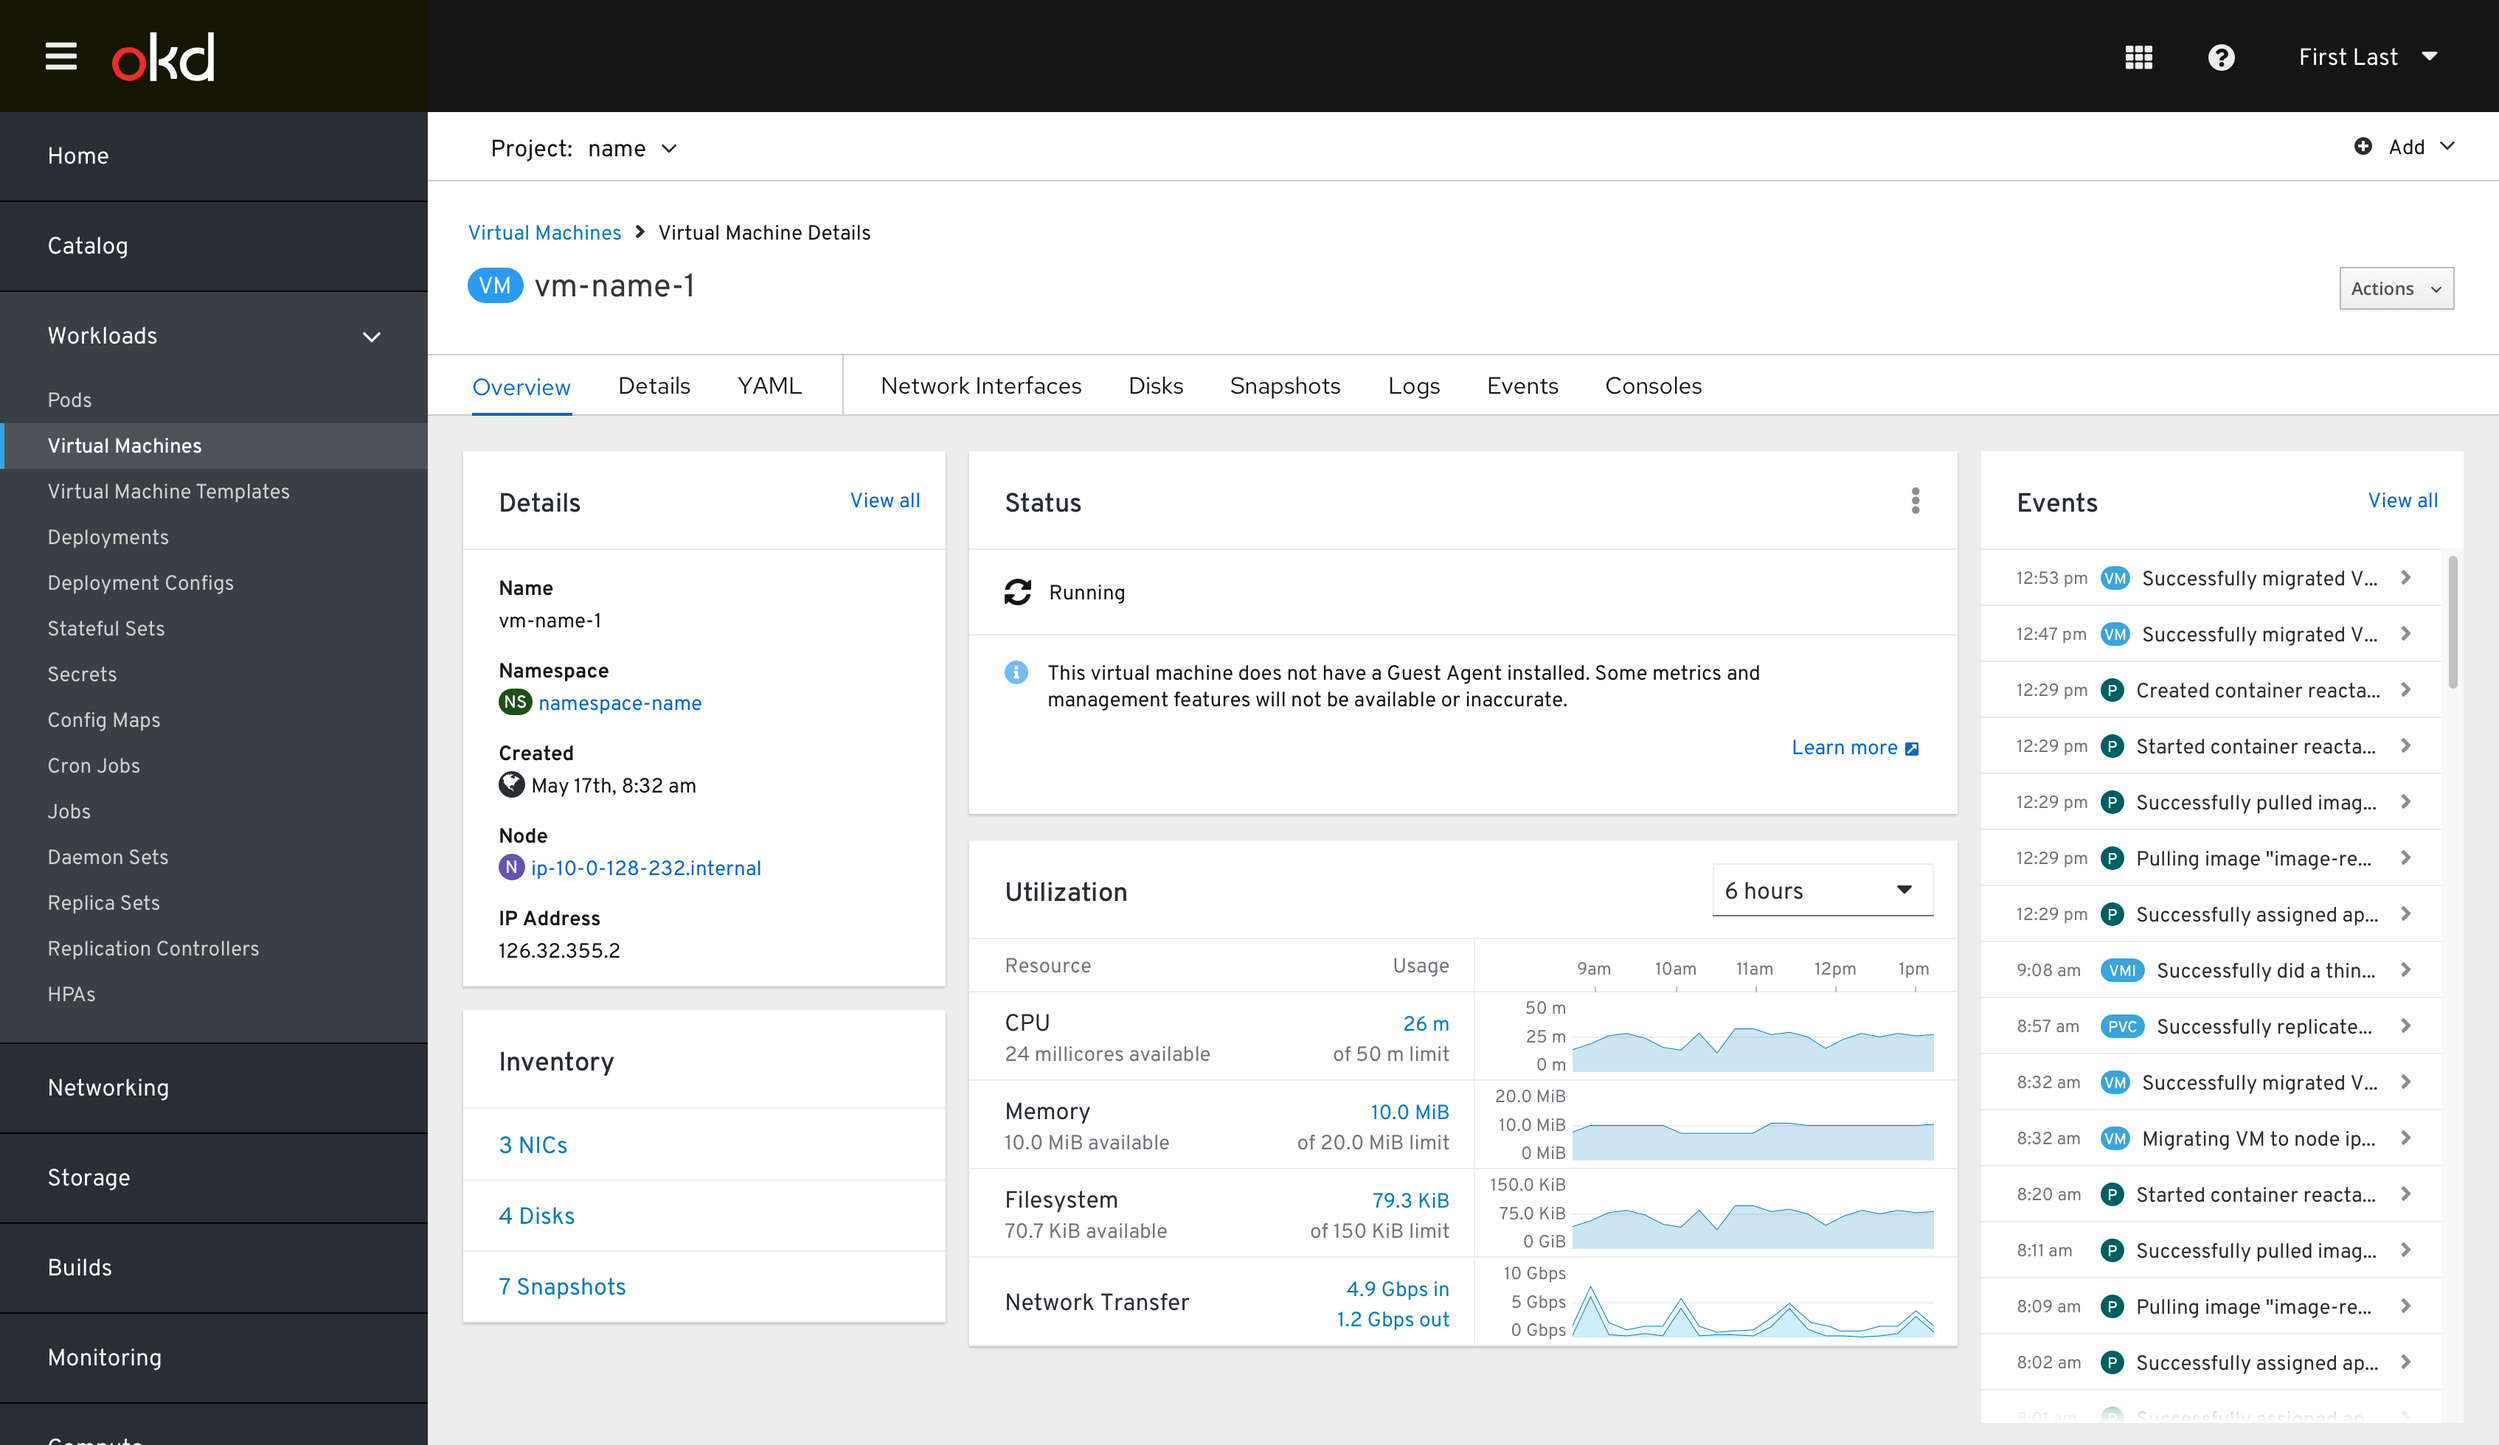
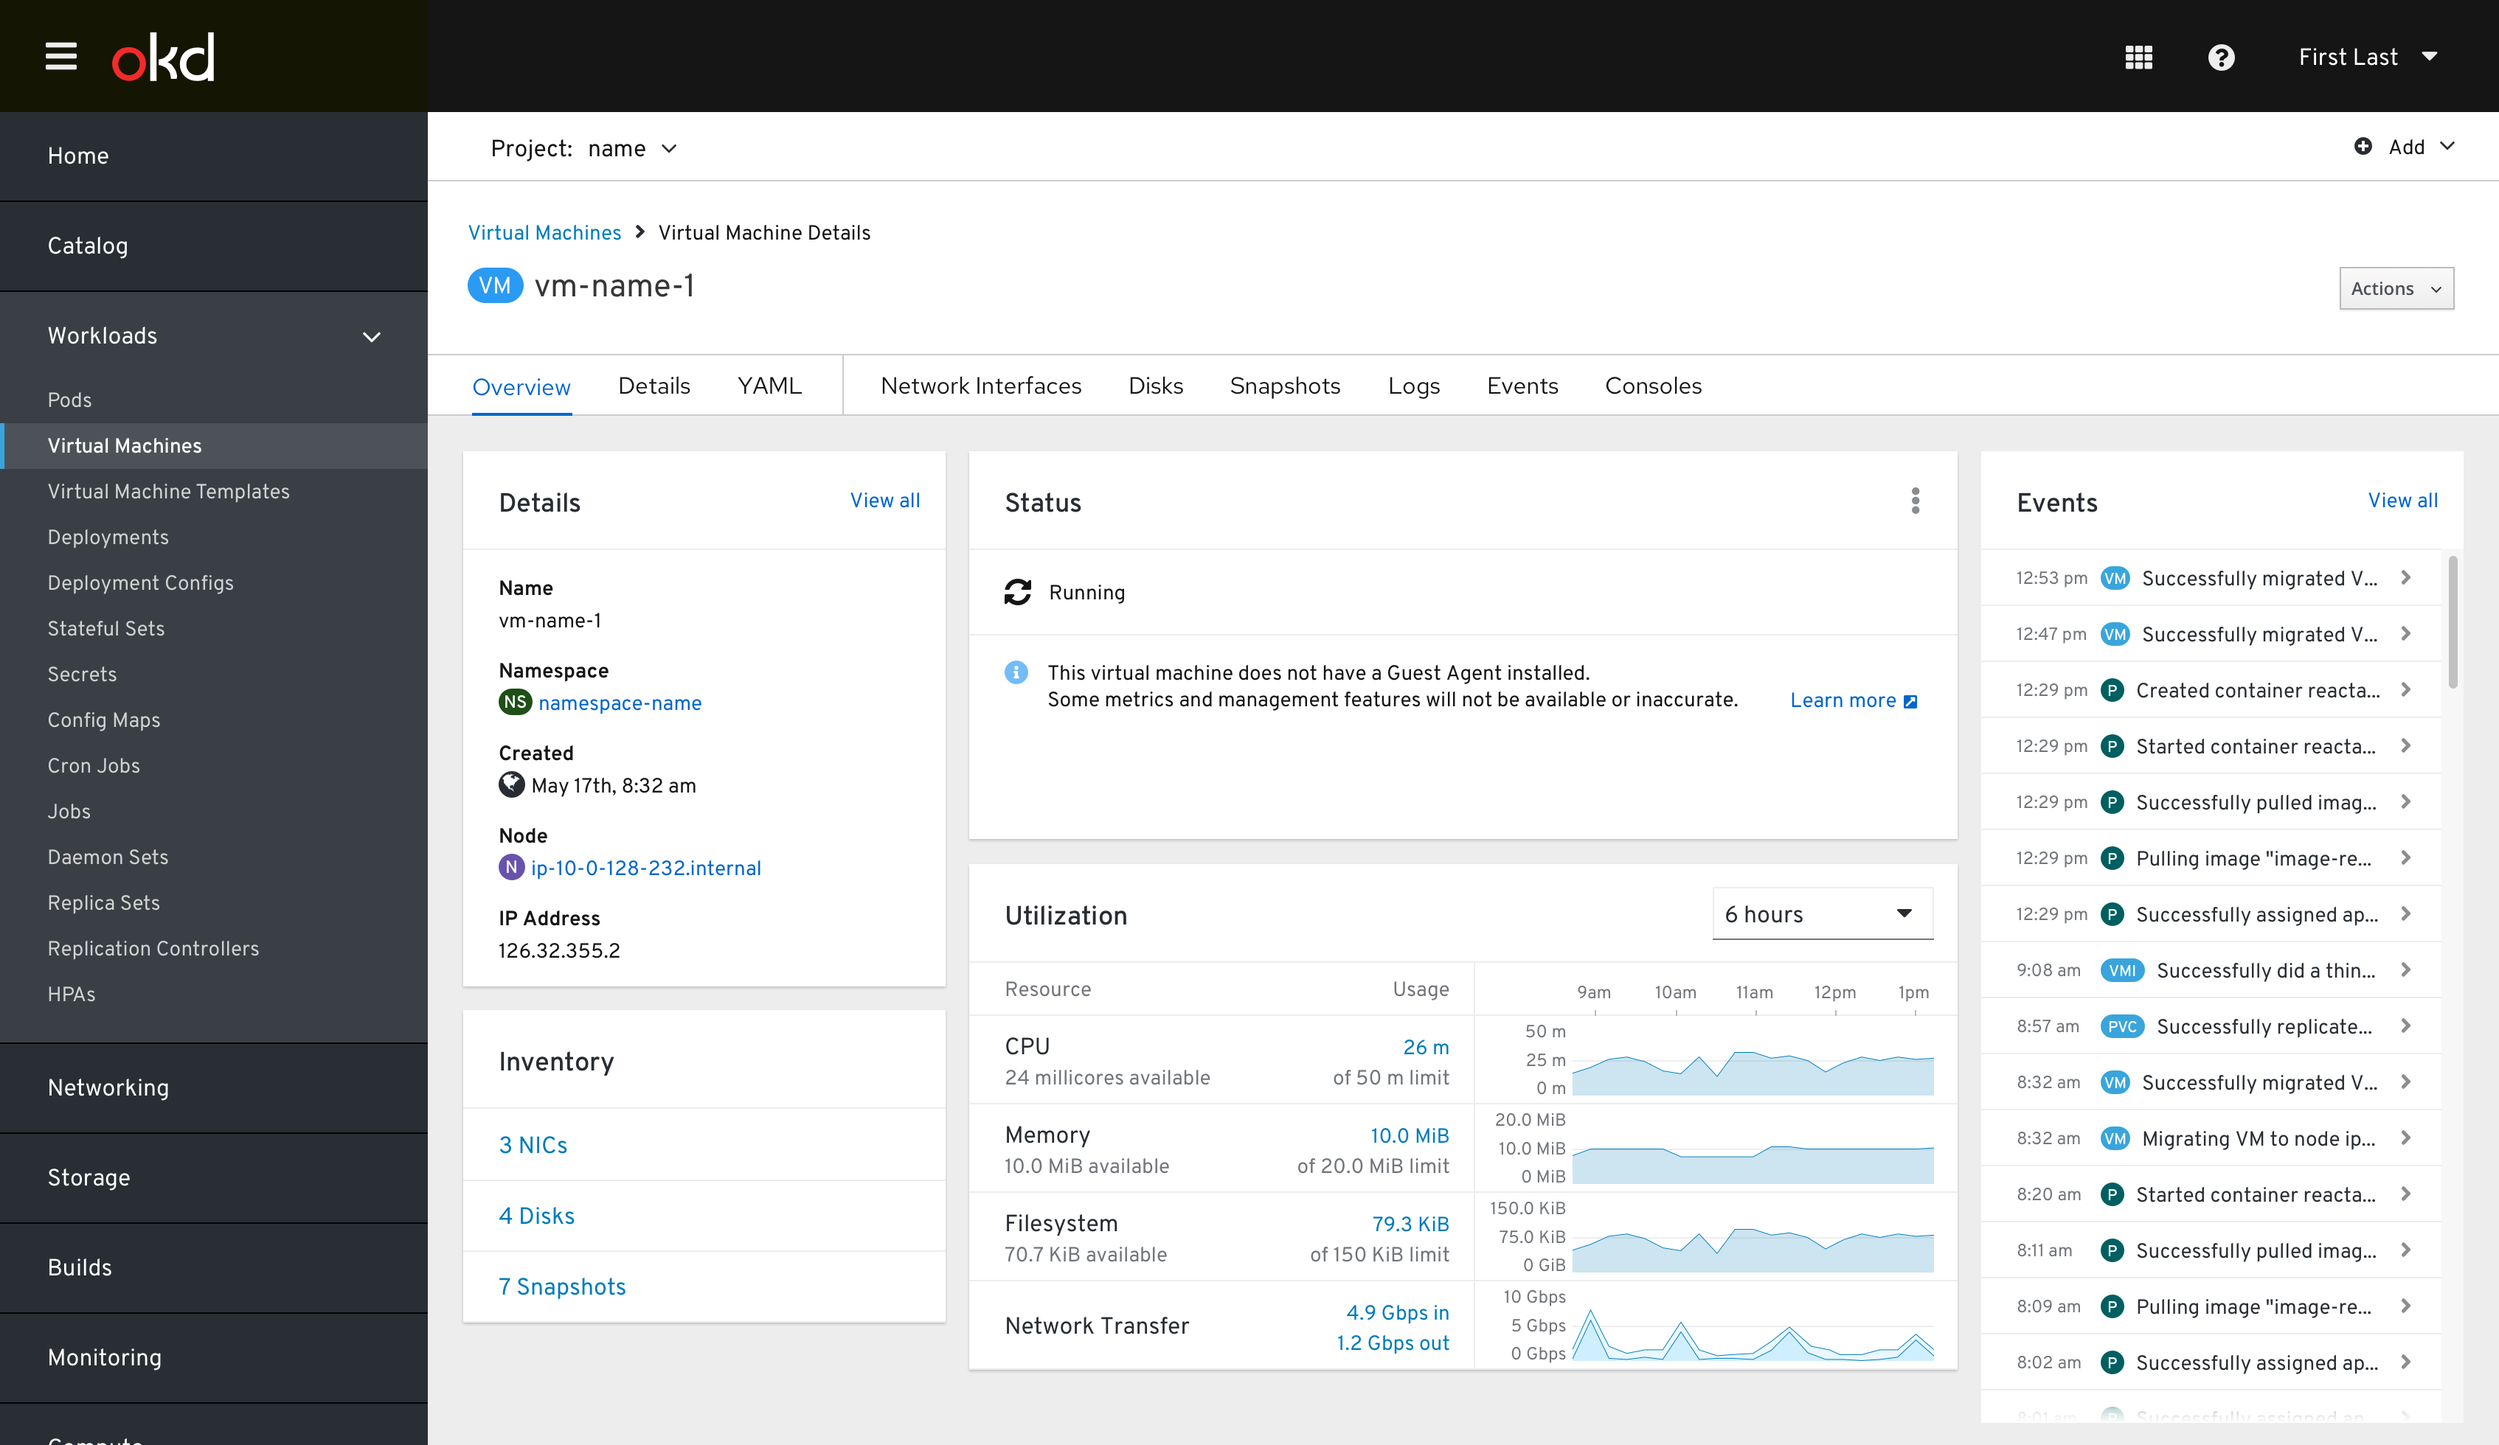
updates

diff --git a/designs/virtualization/4.x/expose-guest-data/expose guest data.md b/designs/virtualization/4.x/expose-guest-data/expose guest data.md
@@ -3,8 +3,7 @@
 When the Guest Agent is installed on a VM some additional valuable data can be collected then surfaced in the UI.
 When the Guest Agent isn’t installed we will inform the users about that.
 
-We can report that in the VM’s Overview tab under the Status card and provide a message: “This virtual machine does not have a Guest Agent installed. Some metrics, and management features will not be available or accurate” and add an external link to view the details about the installation procedure of the Guest Agent, if the users are interested to do so. The link will lead the users to the instructions on how to install the Guest Agent. Linux users will need to download and install the Guest Agent online, while Windows users will get the installation on a CD ROM.
-After the installation they will need to restart the VM.
+We can report that in the VM’s Overview tab under the Status card and provide a message: “This virtual machine does not have a Guest Agent installed. Some metrics, and management features will not be available or inaccurate” and add an external link to view the details about the installation procedure of the Guest Agent, if the users are interested to do so. The link will lead the users to the instructions on how to install the Guest Agent.
 
 ![Notifying users that Guest Agent isn't installed](img/vm-overview-tab.png)
 
@@ -21,13 +20,14 @@ Some of the data that is collected via the Guest Agent can be surfaced in the VM
 
 ![Additional data when Guest Agent is installed](img/vm-dashboard-w-ga-installed.png)
 
-Clicking the number of logged in users will lead to a table with all the relevant info about these logged in users.
+Clicking the number of logged in users will lead to a table with all the relevant info about these logged in users. This info is required so that users will be aware  when they're about to take an action that will affect those logged in users (f.e.) powering the VM off or restarting it.
 
 ### Details tab
 
 ![VM overview page](img/vm-overview.png)
 
-To simplify the information about OS versions (the Guest Agent and what was installed by the admin while creating the VM), we can surface only the current OS version that’s installed (the Guest Agent OS). In case we have a mismatch with the OS that the admin originally installed, we can show an alert that indicates that mismatch and offer a solution.
+To simplify the information about OS versions (the Guest Agent and what was installed by the admin while creating the VM), we can surface only the current OS version that’s installed (the Guest Agent OS). 
+In case we have a mismatch between the chosen Operating System version (the OS that the admin originally installed) and the detected Operating System version, we can show an alert that indicates that mismatch and offer a solution.
 
 ![notification when mismatch os version between Guest Agent and original](img/vm-overview-GA-not-match.png)
 
@@ -41,13 +41,15 @@ Some additional data related to File systems can be surfaced in the VM’s Disks
 
 - Disk mounts with usage - mount point - where the disk is mounted in the tree
 
-![disks table](img/disks-table.png)
-
-Clicking on the disk name will open a popover with an explanation about the 2 different views of the disks: the K8s view and the Guest Agent view.
-
-![disks table with popover](img/disks-2-tables-popover.png)
-
 Since there is no 1:1 mapping between the way the disks are seen from the OpenShift Virtualization point of view and the way they are seen from the Guest Agent point of view, we’ll show the 2 sets of info in 2 separate tables.
 The 'Disks' table will always be shown and the ‘File systems’ table (partitions) will be shown only if the Guest Agent is installed.
 
-![2 tables: disks and file systems](img/disks-2-tables.png)
+In the case the Guest Agent isn't installed and we can provide only the disk table we can suggest that the Guest Agent can be installed to provide the File system information.
+
+#### Disks table (when Guest Agent isn't installed)
+
+![disks table](img/disks-2-tables-GA-not-installed.png)
+
+#### Disks and File Systems tables (when Guest Agent is installed)
+
+![2 tables: disks and file systems](img/disks-2-tables-GA-installed.png)
